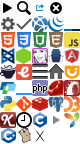
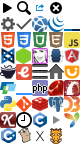
Add Grunt documentation

Changed region(s): [[0.625, 0.8889, 0.775, 1.0]]

diff --git a/assets/stylesheets/global/_icons.scss b/assets/stylesheets/global/_icons.scss
@@ -54,3 +54,4 @@
 ._icon-cpp:before           { background-position: 0 -8rem; }
 ._icon-go:before            { background-position: -1rem -8rem; }
 ._icon-express:before       { background-position: -2rem -8rem; }
+._icon-grunt:before         { background-position: -3rem -8rem; }

diff --git a/assets/stylesheets/pages/_grunt.scss b/assets/stylesheets/pages/_grunt.scss
@@ -1,0 +1,8 @@
+._grunt {
+  padding-left: 1rem;
+
+  h1, h2, h3 { margin-left: -1rem; }
+  h2 { @extend %block-heading; }
+  h3 { @extend %block-label, %label-blue; }
+  p > code { @extend %label; }
+}

diff --git a/assets/stylesheets/application.css.scss b/assets/stylesheets/application.css.scss
@@ -38,6 +38,7 @@
         'pages/jquery',
         'pages/knockout',
         'pages/git',
+        'pages/grunt',
         'pages/less',
         'pages/lodash',
         'pages/mdn',

diff --git a/lib/docs/filters/grunt/entries.rb b/lib/docs/filters/grunt/entries.rb
@@ -1,0 +1,34 @@
+module Docs
+  class Grunt
+    class EntriesFilter < Docs::EntriesFilter
+      def get_name
+        at_css('h1').content
+      end
+
+      def get_type
+        if name.starts_with?('grunt') || name == 'Inside Tasks'
+          name
+        else
+          'Miscellaneous'
+        end
+      end
+
+      def additional_entries
+        return [] unless subpath.starts_with?('api')
+
+        css('h3').each_with_object [] do |node, entries|
+          name = node.content
+          name.remove! %r{\s.+\z}
+
+          next if name == self.name
+
+          entries << [name, node['id']]
+        end
+      end
+
+      def include_default_entry?
+        name != 'Inside Tasks'
+      end
+    end
+  end
+end

diff --git a/lib/docs/scrapers/grunt.rb b/lib/docs/scrapers/grunt.rb
@@ -1,0 +1,27 @@
+module Docs
+  class Grunt < UrlScraper
+    self.name = 'Grunt'
+    self.type = 'grunt'
+    self.version = '0.4.4'
+    self.base_url = 'http://gruntjs.com/'
+    self.root_path = 'getting-started'
+    self.initial_paths = %w(api/grunt)
+
+    html_filters.push 'grunt/clean_html', 'grunt/entries'
+
+    options[:only] = %w(
+      configuring-tasks
+      sample-gruntfile
+      creating-tasks
+      using-the-cli
+    )
+    options[:only_patterns] = [/\Aapi\//]
+
+    options[:container] = '.container > .row-fluid'
+
+    options[:attribution] = <<-HTML
+      &copy; 2014 Grunt Team<br>
+      Licensed under the MIT License.
+    HTML
+  end
+end

diff --git a/lib/docs/filters/grunt/clean_html.rb b/lib/docs/filters/grunt/clean_html.rb
@@ -1,0 +1,28 @@
+module Docs
+  class Grunt
+    class CleanHtmlFilter < Filter
+      def call
+        @doc = at_css('.hero-unit')
+
+        if root_page?
+          at_css('h1').content = 'Grunt'
+        end
+
+        css('.end-link').remove
+
+        # Put id attributes on headings
+        css('a.anchor').each do |node|
+          node.parent['id'] = node['name']
+          node.before(node.children).remove
+        end
+
+        # Remove code highlighting
+        css('pre').each do |node|
+          node.content = node.content
+        end
+
+        doc
+      end
+    end
+  end
+end
